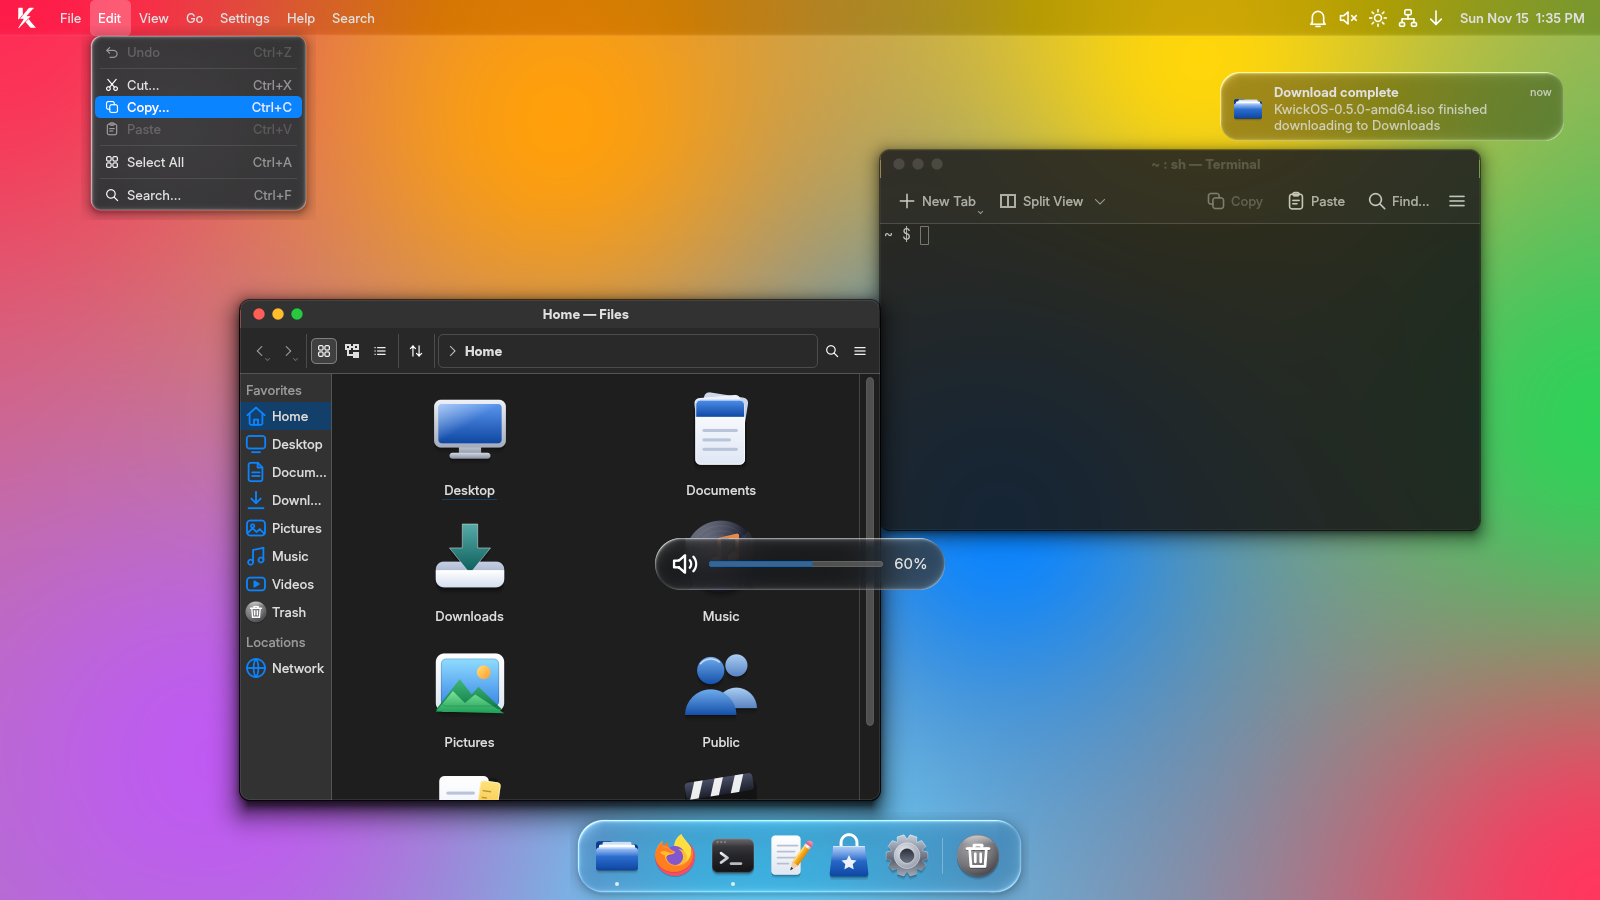
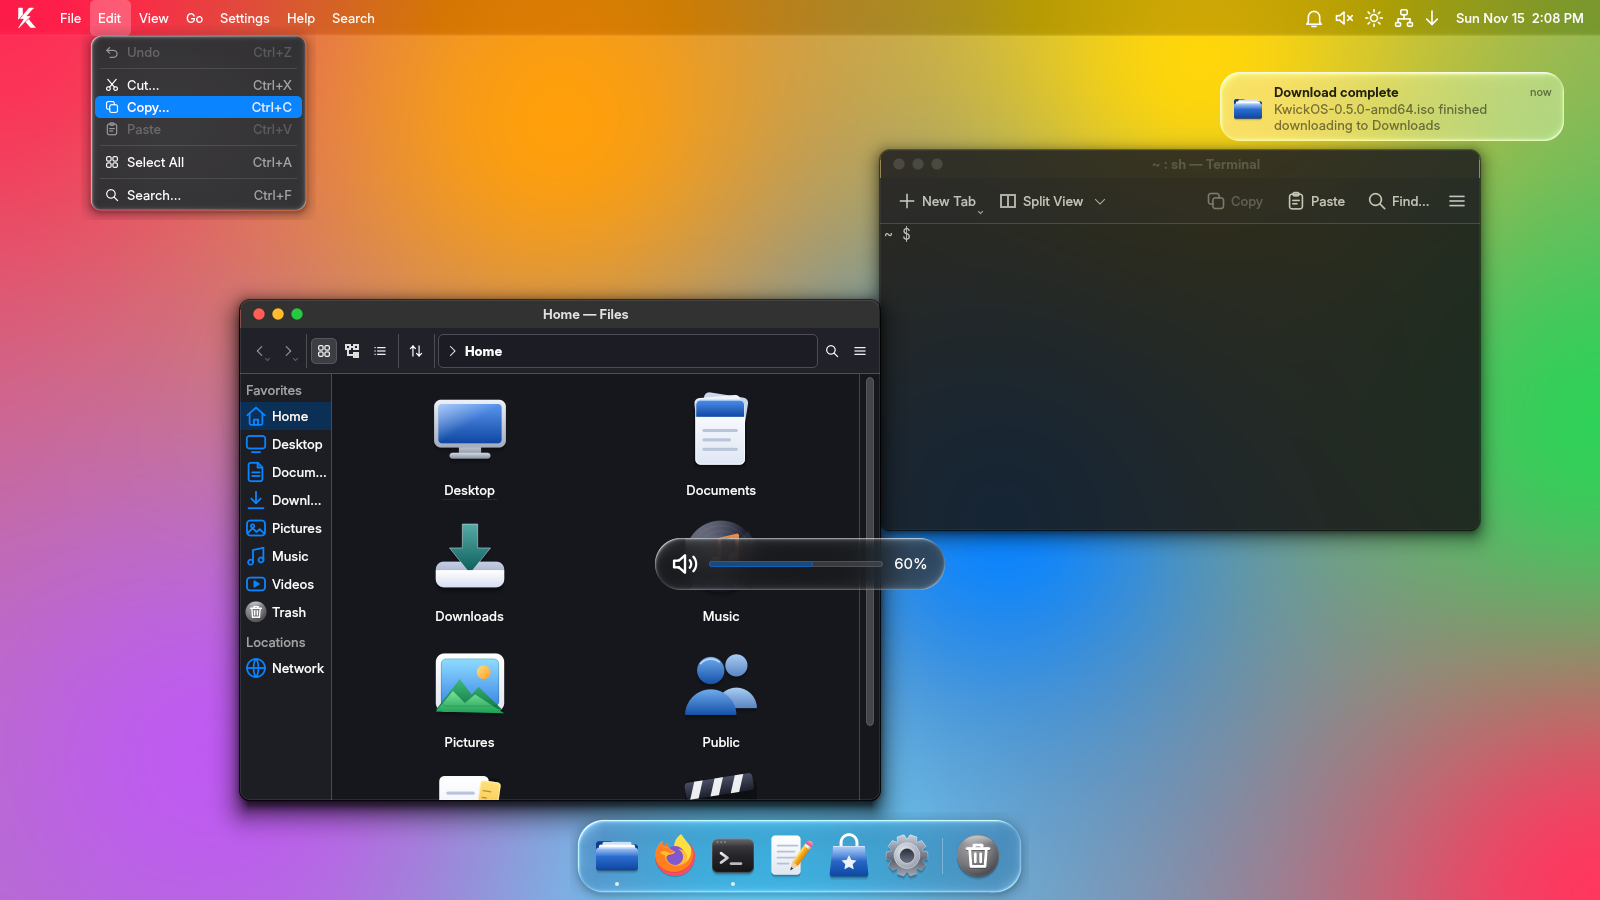
liquid glass round 5: adaptive notification material, light frost with dark text over bright backdrops

Changed region(s): [[0.75, 0.0622, 1.0, 0.1556], [0.8125, 0.0, 1.0, 0.0311], [0.4375, 0.6222, 0.5, 0.6533]]

diff --git a/desktop/rootfs/usr/local/share/plasma/plasmoids/org.kde.plasma.notifications/contents/ui/delegates/DelegatePopup.qml b/desktop/rootfs/usr/local/share/plasma/plasmoids/org.kde.plasma.notifications/contents/ui/delegates/DelegatePopup.qml
@@ -24,7 +24,7 @@ BaseDelegate {
 
     readonly property bool critical: modelInterface.urgency === NotificationManager.Notifications.CriticalUrgency
     readonly property string title: modelInterface.summary.length > 0 ? modelInterface.summary : modelInterface.applicationName
-    readonly property color secondary: Qt.rgba(Kirigami.Theme.textColor.r, Kirigami.Theme.textColor.g, Kirigami.Theme.textColor.b, 0.8)
+    readonly property color secondary: Qt.rgba(0.9, 0.9, 0.9, 0.8)
     property date now: new Date()
 
     function stamp(t) {
@@ -72,6 +72,7 @@ BaseDelegate {
             Layout.fillWidth: true
             text: delegateRoot.title
             textFormat: Text.PlainText
+            color: "#ffffff"
             font.weight: Font.DemiBold
             elide: Text.ElideRight
             maximumLineCount: 1

diff --git a/src/kwin-liquidglass/liquidglasseffect.cpp b/src/kwin-liquidglass/liquidglasseffect.cpp
@@ -808,6 +808,7 @@ bool LiquidGlassEffect::paintGlass(const RenderTarget &renderTarget, const Rende
     const float shadowRoom = float(std::clamp(margin / (10.0 * scale), 0.0, 1.0));
     shader->setUniform("uShadow", kind == Kind::Bar || kind == Kind::Frame || kind == Kind::Window ? 0.0f : 0.32f * shadowRoom * shadowRoom);
     shader->setUniform("uVeil", look.veil);
+    shader->setUniform("uAdapt", kind == Kind::Notification ? 1.0f : 0.0f);
     shader->setUniform("uPointer",QVector3D(float(pointer.x()), float(pointer.y()), float(m_interactive && kind != Kind::Window ? glass.hover : 0.0)));
 
     glActiveTexture(GL_TEXTURE2);
@@ -1008,6 +1009,26 @@ bool LiquidGlassEffect::drawClipped(const RenderTarget &renderTarget, const Rend
     shader->setUniform("uShadow", window ? QVector3D(active ? 0.62f : 0.42f, float((active ? 14.0 : 8.0) * scale), float((active ? 17.0 : 12.0) * scale)) : QVector3D(0.0f, 0.0f, 1.0f));
     shader->setUniform("uStroke", window ? QVector2D(active ? 0.09f : 0.05f, active ? 0.38f : 0.26f) : QVector2D(0.0f, 0.0f));
     shader->setUniform("uScale", float(scale));
+    shader->setUniform("uMean", 1);
+    GLTexture *mean = nullptr;
+    if (glass.kind == Kind::Notification) {
+        const auto found = glass.render.find(m_currentScreen);
+        if (found != glass.render.end() && !found->second.passes.empty() && !found->second.device.isEmpty()) {
+            const Render &render = found->second;
+            mean = render.passes.back().texture.get();
+            const QPointF center = shapeDevice.center() - QPointF(render.device.topLeft());
+            const float W = render.device.width();
+            const float H = render.device.height();
+            shader->setUniform("uMeanUv", QVector3D(float(center.x() / W), float(1.0 - center.y() / H), float(shapeDevice.width() * 0.3 / W)));
+        }
+    }
+    shader->setUniform("uAdapt", mean ? 1.0f : 0.0f);
+    shader->setUniform("uInkLeft", float(shapeDevice.left() + 48.0 * scale));
+    if (mean) {
+        glActiveTexture(GL_TEXTURE1);
+        mean->bind();
+        glActiveTexture(GL_TEXTURE0);
+    }
 
     const QRegion logicalClip = region == infiniteRegion() ? QRegion(transformed ? viewport.renderRect().toAlignedRect() : geometry.translated(shift).toAlignedRect()) : region;
     const QRegion clipRegion = viewport.mapToRenderTarget(logicalClip);
@@ -1018,6 +1039,11 @@ bool LiquidGlassEffect::drawClipped(const RenderTarget &renderTarget, const Rend
     glass.clipTexture->bind();
     vbo->draw(clipRegion, GL_TRIANGLES, 0, vertices.size(), true);
     glass.clipTexture->unbind();
+    if (mean) {
+        glActiveTexture(GL_TEXTURE1);
+        mean->unbind();
+        glActiveTexture(GL_TEXTURE0);
+    }
     vbo->unbindArrays();
     glDisable(GL_BLEND);
     glDisable(GL_SCISSOR_TEST);

diff --git a/docs/EFFECTS.md b/docs/EFFECTS.md
@@ -74,9 +74,13 @@ How it is drawn, per glass surface:
   applet popups 16 px, notifications 20 px, OSDs and the dock's name labels are capsules; they scale a little with the window
   corner radius setting. A bar that spans the screen, like the menu bar, only gets a bevel on its free edge and a fainter rim.
 * Menus, popups and tooltips use a neutral dark frost: the colours behind are almost fully desaturated and darkened toward a
-  neutral grey, so a red or orange wallpaper does not turn the menu brown. Notifications use a lighter frost that keeps the hue
-  behind them: a faint white veil, then a multiply that darkens without greying, so the white text stays readable. The dock keeps
-  the more saturated, clearer look.
+  neutral grey, so a red or orange wallpaper does not turn the menu brown. Notification banners adapt to what is behind them:
+  the shader takes the average luminance of the blurred backdrop, and above about 0.55 the card becomes a light, bright frost
+  (a 40% white veil over the saturated backdrop, no darkening) with dark text; below it, a darker frost that keeps the hue (a
+  faint veil, then a multiply that darkens without greying) with white text. The two blend smoothly across the threshold. The text
+  colour is switched in the same composite pass, from the same luminance, so it can never disagree with the material or flicker:
+  near-white text right of the icon becomes black at 85% for the title and 50% for the body and timestamp, while the icon and
+  anything coloured are left alone. The dock keeps the more saturated, clearer look.
 * Menus, popups, notifications, labels and OSDs are drawn offscreen and cut to that rounded shape with an anti-aliased mask, so
   the app's own square or small-radius background corners never show outside the glass.
 * Floating surfaces get a soft contact shadow drawn by the same pass, faded out when the window has no margin around the glass
@@ -130,7 +134,7 @@ widget and fight the palette, while the proxy changes menus only.
 
 Notification popups use a Tahoe-style card from `/usr/local/share/plasma/plasmoids/org.kde.plasma.notifications` (Plasma 6.3.6's
 notifications applet with a new popup delegate): 344 px wide with a 20 px radius, a 32 px app icon on the left, the title in
-semibold, the body at 80% white clamped to two lines, a "now" / "5m ago" timestamp at the top right, and a round
+semibold, the body at 80% (black at 50% on the light material) clamped to two lines, a "now" / "5m ago" timestamp at the top right, and a round
 close button that appears over the icon's corner on hover.
 
 Tuning lives in `kwinrc`, group `[Effect-kwick_liquidglass]`, values in percent: `Refraction` (60), `Blur` (50), `Dispersion` (35),
